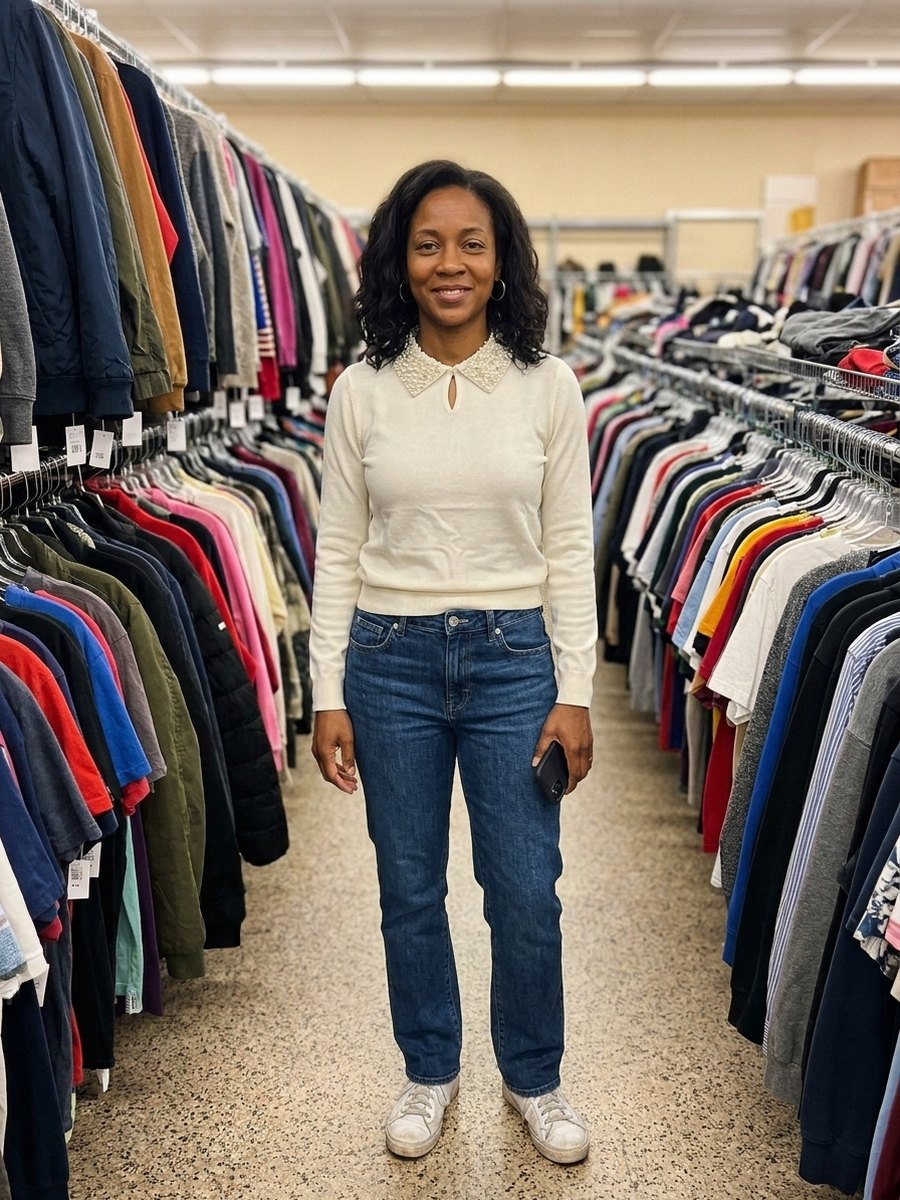
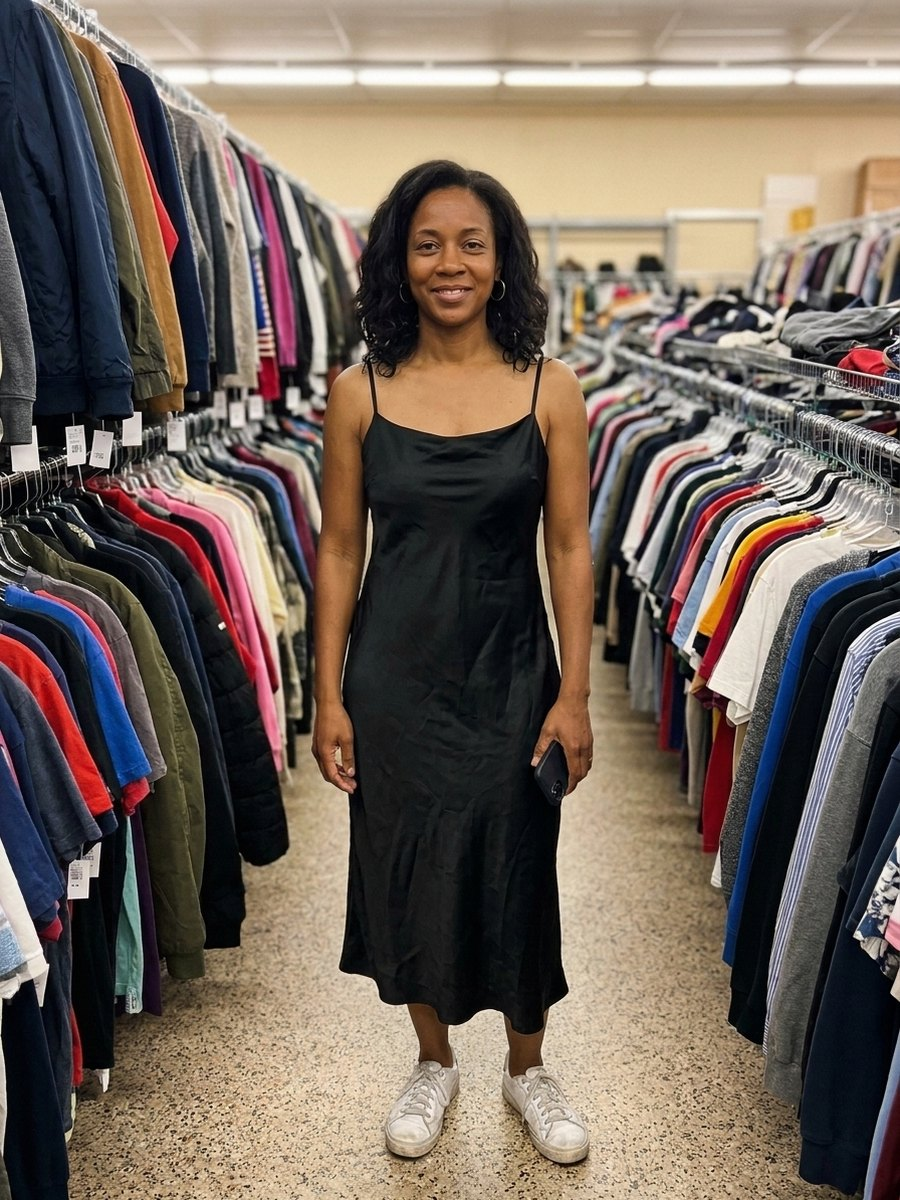
Landing hero: creative-review fixes (#16)
Claude-Session: https://claude.ai/code/session_01RpN9wGeVqSFwbmoWFCdRdb

diff --git a/public/index.html b/public/index.html
@@ -32,6 +32,7 @@
   @media(min-width:760px){nav .links{display:flex}}
   /* hero */
   .hero{padding:36px 0 28px;display:grid;gap:28px}
+  @media(max-width:859px){.hero>div:first-child{display:contents}.hero .tag,.hero h1,.hero p.lead{order:0}.hero>div:last-child{order:1}.hero .cta{order:2}.hero .fine{order:3;margin-top:0}}
   @media(min-width:860px){.hero{grid-template-columns:1.1fr .9fr;align-items:center;gap:56px;padding:72px 0 64px}}
   .hero .tag{display:inline-flex;align-self:flex-start;background:var(--champagne);border-radius:999px;padding:8px 14px}
   .hero p.lead{font-size:clamp(17px,4.3vw,21px);color:var(--stone);margin:14px 0 22px;max-width:540px}
@@ -97,18 +98,18 @@ window.otr=(e,p)=>{try{posthog.capture('otr_'+e,p||{})}catch{}};
     <h1 style="margin-top:14px">See it on you before the fitting-room line.</h1>
     <p class="lead">Snap the hanger. Snap yourself. See the whole outfit on your real body in under a minute. Any rack, any store — thrift, resale, outlet.</p>
     <div class="cta"><a class="btn big" href="/app">Try 3 looks free</a><a href="#how" style="font-weight:700;padding:14px 8px;text-decoration:underline">How it works</a></div>
-    <p class="fine">No card to start · Never stored on our servers · 18+ · No app download</p>
+    <p class="fine">No card to start · Never stored on our servers · No app download</p>
   </div>
   <div>
-    <div class="cmp" id="cmp" style="--cut:55%">
+    <div class="cmp" id="cmp" style="--cut:34%">
       <img src="/img/demo-before.jpg" alt="Shopper in a thrift-store aisle wearing a grey tee and jeans, before" width="900" height="1200" fetchpriority="high">
-      <img class="after" src="/img/demo-after.jpg" alt="The same shopper wearing the sweater and jeans from the rack" width="900" height="1200">
+      <img class="after" src="/img/demo-after.jpg" alt="The same shopper wearing the black slip dress from the rack" width="900" height="1200">
       <div class="bar"></div><div class="knob" aria-hidden="true">⇔</div>
       <span class="tag" style="left:14px">BEFORE</span><span class="tag" style="right:14px">AFTER</span>
       <span class="time">UNDER 1 MIN</span><span class="ai">AI-generated preview</span>
-      <input type="range" id="cut" min="0" max="100" value="55" aria-label="Drag to compare before and after">
+      <input type="range" id="cut" min="0" max="100" value="34" aria-label="Drag to compare before and after">
     </div>
-    <p class="cap">Drag to compare · AI-generated shopper, real hanger photos, nothing retouched but the clothes</p>
+    <p class="cap">Drag to compare · The demo shopper is an AI model — we never keep or show real customers' photos. Your try-on uses your own photo.</p>
   </div>
 </div></div>
 
@@ -172,7 +173,7 @@ window.otr=(e,p)=>{try{posthog.capture('otr_'+e,p||{})}catch{}};
 </div></div></section>
 </main>
 
-<footer class="wrap"><span>© 2026 Off the Rack · offtherack.app</span><div><a href="/report.html">Report a photo</a><a href="/privacy.html">Privacy</a><a href="/terms.html">Terms</a></div></footer>
+<footer class="wrap"><span>© 2026 Off the Rack · offtherack.app · 18+</span><div><a href="/report.html">Report a photo</a><a href="/privacy.html">Privacy</a><a href="/terms.html">Terms</a></div></footer>
 <div class="sticky" id="sticky"><a class="btn" href="/app">Try 3 looks free</a></div>
 
 <script>
